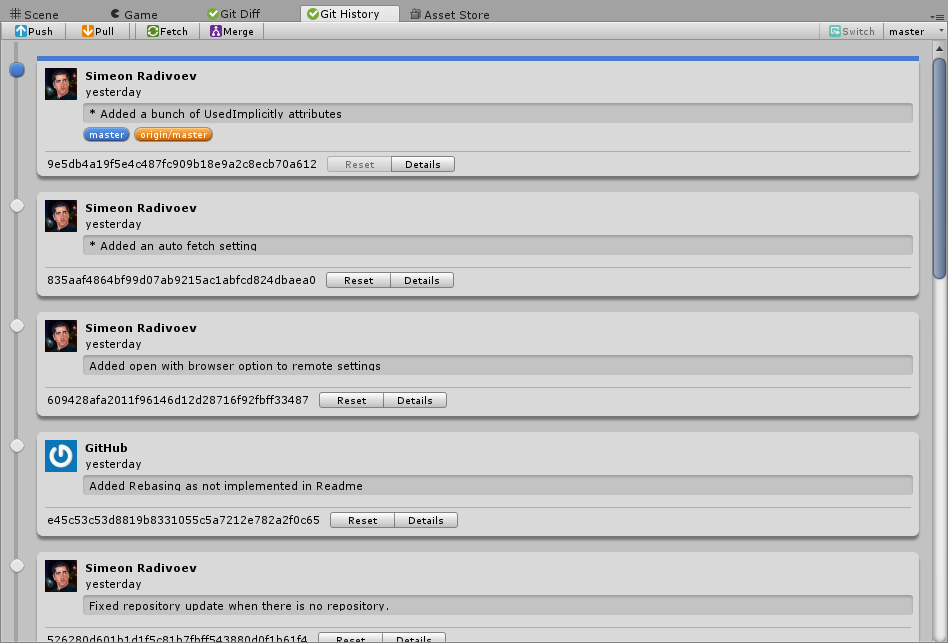
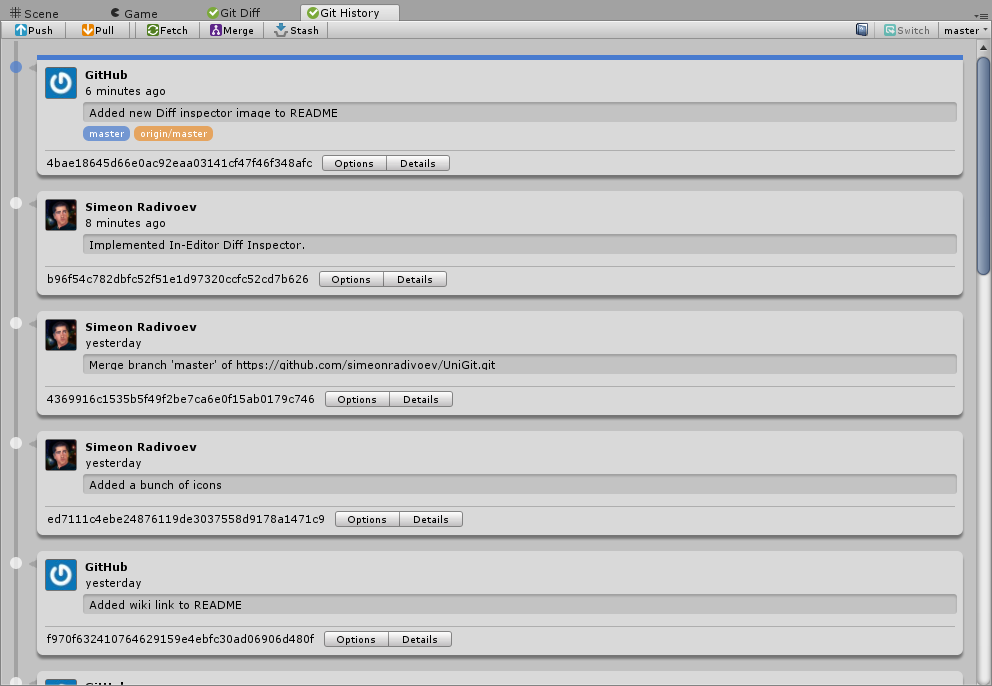
Updated Images and Moved Read Commit from file option to GitSettings

Changed region(s): [[0.0, 0.0, 1.0, 1.0]]

diff --git a/Assets/Plugins/UniGit/Editor/GitDiffWindow.cs b/Assets/Plugins/UniGit/Editor/GitDiffWindow.cs
@@ -64,7 +64,6 @@ namespace UniGit
 			public bool emptyCommit;
 			public bool amendCommit;
 			public bool prettify;
-			public bool readFromFile;
 			public string commitMessage;
 			public string commitMessageFromFile;
 			public DateTime lastMessageUpdate;
@@ -153,7 +152,7 @@ namespace UniGit
 			base.OnFocus();
 			GUI.FocusControl(null);
 
-			if (settings.readFromFile)
+			if (GitManager.Settings.ReadFromFile)
 			{
 				if (File.Exists(CommitMessageFilePath))
 				{
@@ -227,10 +226,10 @@ namespace UniGit
 			EditorGUILayout.BeginHorizontal();
 			if (repoInfo.CurrentOperation == CurrentOperation.Merge)
 				GUILayout.Label(GitGUI.GetTempContent("Merge"), "AssetLabel");
-			commitMaximized = GUILayout.Toggle(commitMaximized, GitGUI.GetTempContent(settings.readFromFile ? "File Commit Message: (Read Only)" : "Commit Message: "), "IN Foldout",GUILayout.Width(settings.readFromFile ? 210 : 116));
+			commitMaximized = GUILayout.Toggle(commitMaximized, GitGUI.GetTempContent(GitManager.Settings.ReadFromFile ? "File Commit Message: (Read Only)" : "Commit Message: "), "IN Foldout",GUILayout.Width(GitManager.Settings.ReadFromFile ? 210 : 116));
 			if (!commitMaximized)
 			{
-				if (!settings.readFromFile)
+				if (!GitManager.Settings.ReadFromFile)
 				{
 					EditorGUI.BeginChangeCheck();
 					GUI.SetNextControlName("Commit Message Field");
@@ -249,7 +248,7 @@ namespace UniGit
 			if (commitMaximized)
 			{
 				commitScroll = EditorGUILayout.BeginScrollView(commitScroll, GUILayout.Height(CalculateCommitTextHeight()));
-				if (!settings.readFromFile)
+				if (!GitManager.Settings.ReadFromFile)
 				{
 					EditorGUI.BeginChangeCheck();
 					GUI.SetNextControlName("Commit Message Field");
@@ -329,7 +328,7 @@ namespace UniGit
 			}
 			commitMenu.AddSeparator("");
 			commitMenu.AddItem(new GUIContent("Commit Message/Clear"), false, ClearCommitMessage);
-			commitMenu.AddItem(new GUIContent("Commit Message/Read from file"), settings.readFromFile, ToggleReadFromFile);
+			commitMenu.AddItem(new GUIContent("Commit Message/Read from file"), GitManager.Settings.ReadFromFile, ToggleReadFromFile);
 			if (File.Exists(CommitMessageFilePath))
 			{
 				commitMenu.AddItem(new GUIContent("Commit Message/Open File"), false, OpenCommitMessageFile);
@@ -384,7 +383,7 @@ namespace UniGit
 
 		private string GetActiveCommitMessage(bool forceUpdate)
 		{
-			if (settings.readFromFile)
+			if (GitManager.Settings.ReadFromFile)
 			{
 				if (forceUpdate)
 				{
@@ -405,16 +404,18 @@ namespace UniGit
 
 		private void ToggleReadFromFile()
 		{
-			if (settings.readFromFile)
+			if (GitManager.Settings.ReadFromFile)
 			{
-				settings.readFromFile = false;
+				GitManager.Settings.ReadFromFile = false;
 				ReadCommitMessage();
 			}
 			else
 			{
-				settings.readFromFile = true;
+				GitManager.Settings.ReadFromFile = true;
 				ReadCommitMessageFromFile();
 			}
+
+			GitManager.Settings.MarkDirty();
 		}
 
 		private void OpenCommitMessageFile()
@@ -864,7 +865,7 @@ namespace UniGit
 
 		public void SetCommitMessage(string commitMessage)
 		{
-			if (settings.readFromFile)
+			if (GitManager.Settings.ReadFromFile)
 			{
 				settings.commitMessageFromFile = commitMessage;
 				SaveCommitMessageToFile();
@@ -881,7 +882,7 @@ namespace UniGit
 		[UsedImplicitly]
 		private void OnDisable()
 		{
-			if (!settings.readFromFile)
+			if (!GitManager.Settings.ReadFromFile)
 			{
 				SaveCommitMessage();
 			}

diff --git a/Assets/Plugins/UniGit/Editor/GitSettings.cs b/Assets/Plugins/UniGit/Editor/GitSettings.cs
@@ -62,6 +62,7 @@ namespace UniGit
 		public float MaxCommitTextAreaSize = 120;
 		public bool DetectRenames = true;
 		public bool UseSimpleContextMenus;
+		public bool ReadFromFile;
 		private bool isDirty;
 
 		public void Copy(GitSettings settings)
